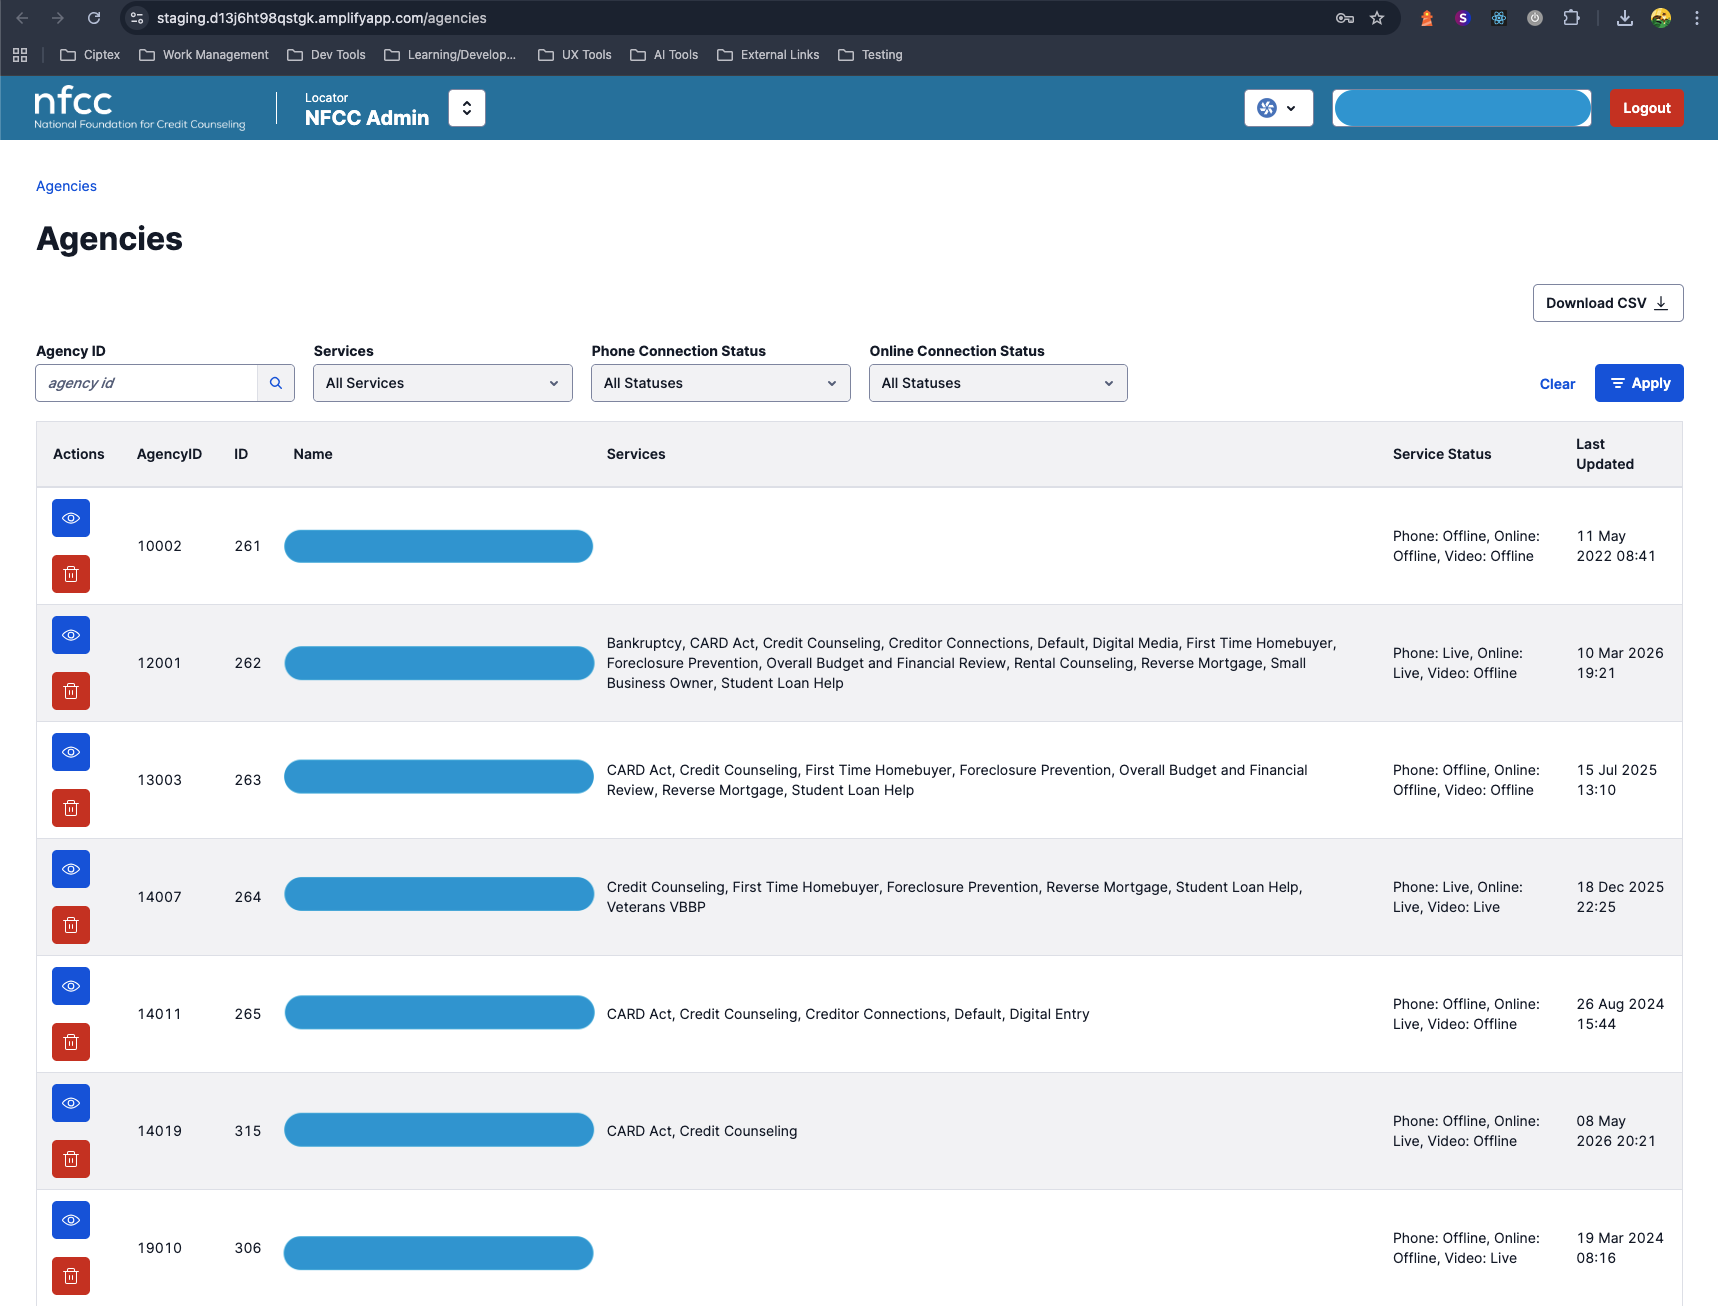
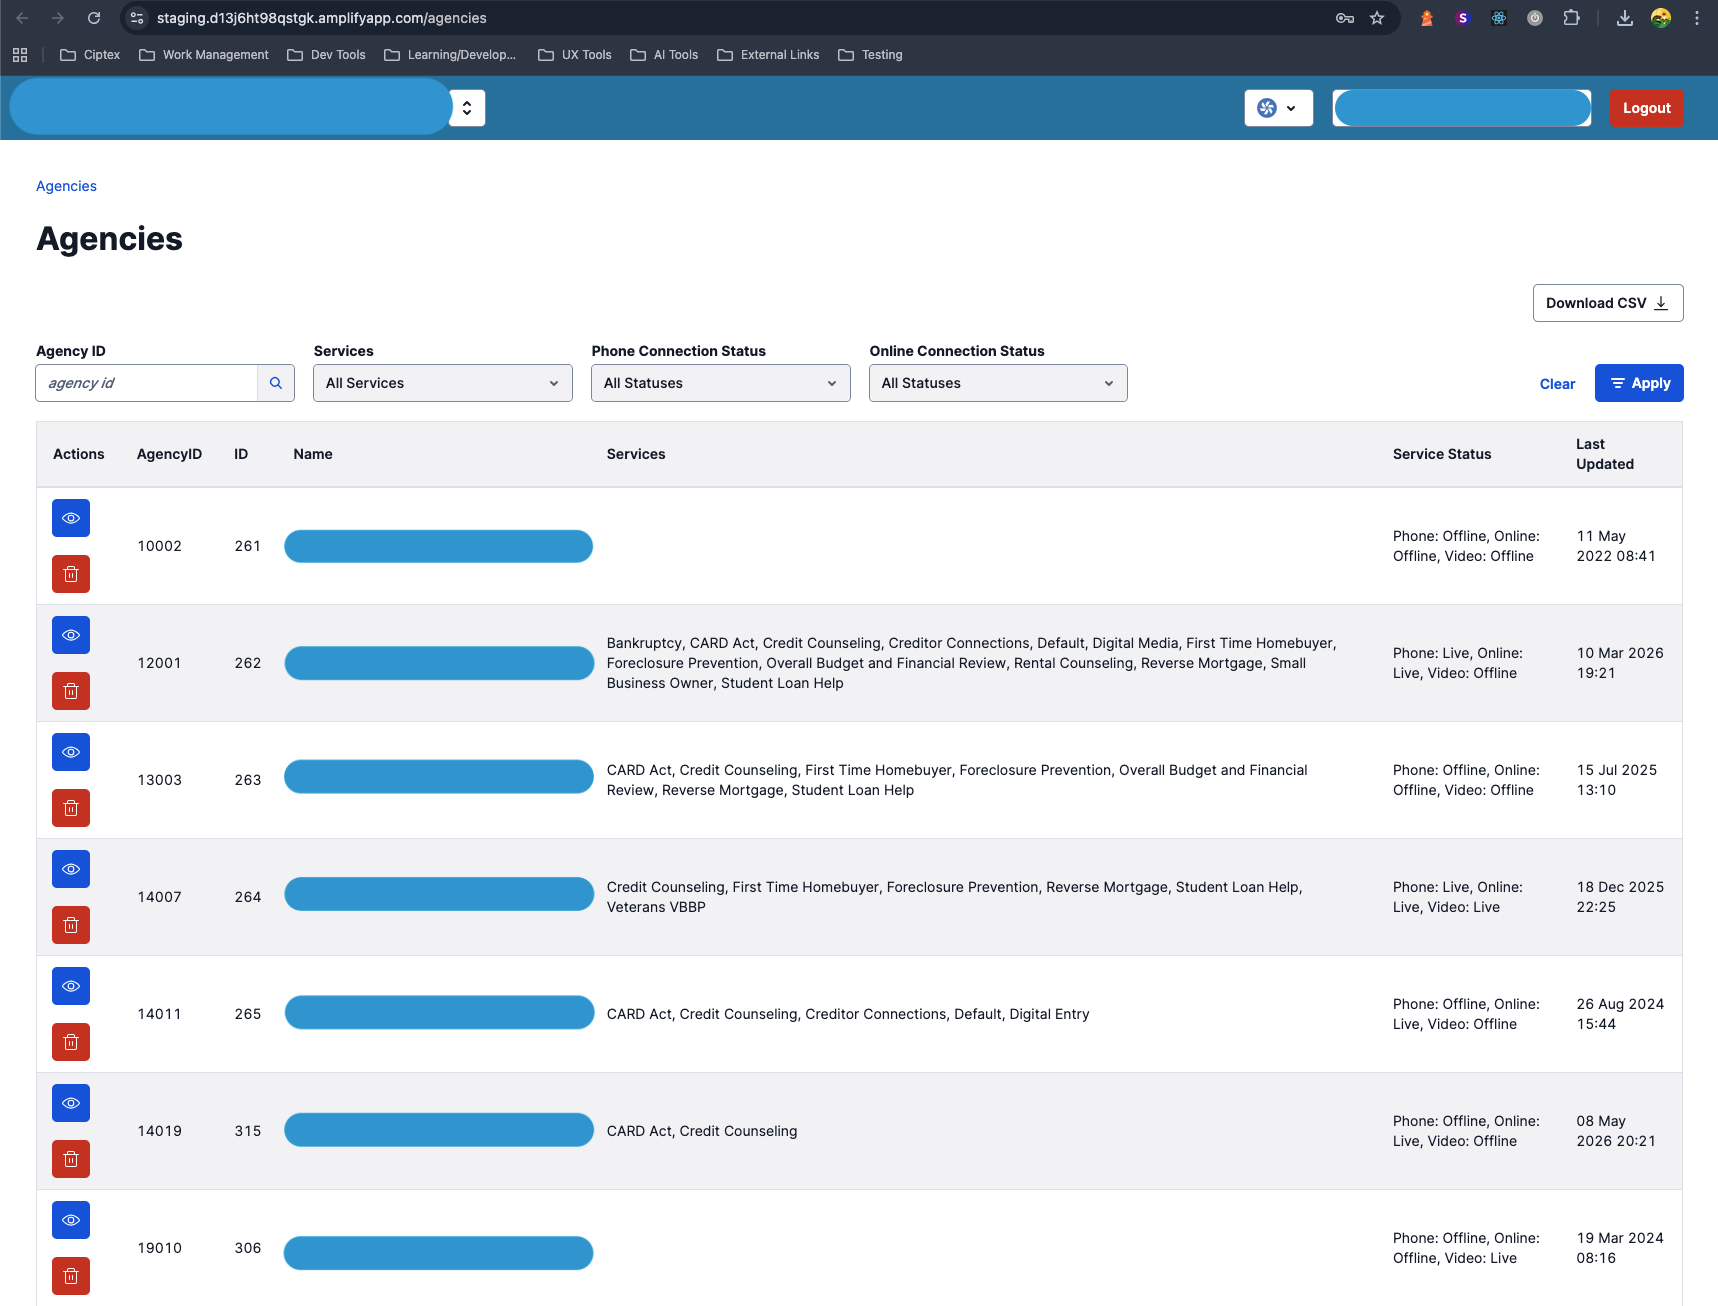
major: #55 - Further NFCC anonymising
Image adaption and replication so a different image for main page to case study page.

Changed region(s): [[0.0, 0.0613, 0.2776, 0.1225]]

diff --git a/src/pages/CaseStudies/projectsData.ts b/src/pages/CaseStudies/projectsData.ts
@@ -1,6 +1,6 @@
 import ShelterCard from "../../assets/shelter_images/shelter-macbook.png";
 import ShelterCardMobile from "../../assets/portfolio_card_images/shelter_portfolio_card.jpg";
-import NFCCCard from "../../assets/portfolio_card_images/nfcc_portfolio_card.jpg";
+import NFCCCard from "../../assets/portfolio_card_images/nfcc_mainpage_portfolio_card copy.png";
 import UNHCRCard from "../../assets/portfolio_card_images/unhcr_card_placeholder.jpg";
 import ShaneCard from "../../assets/portfolio_card_images/shane_portfolio_card.png";
 
